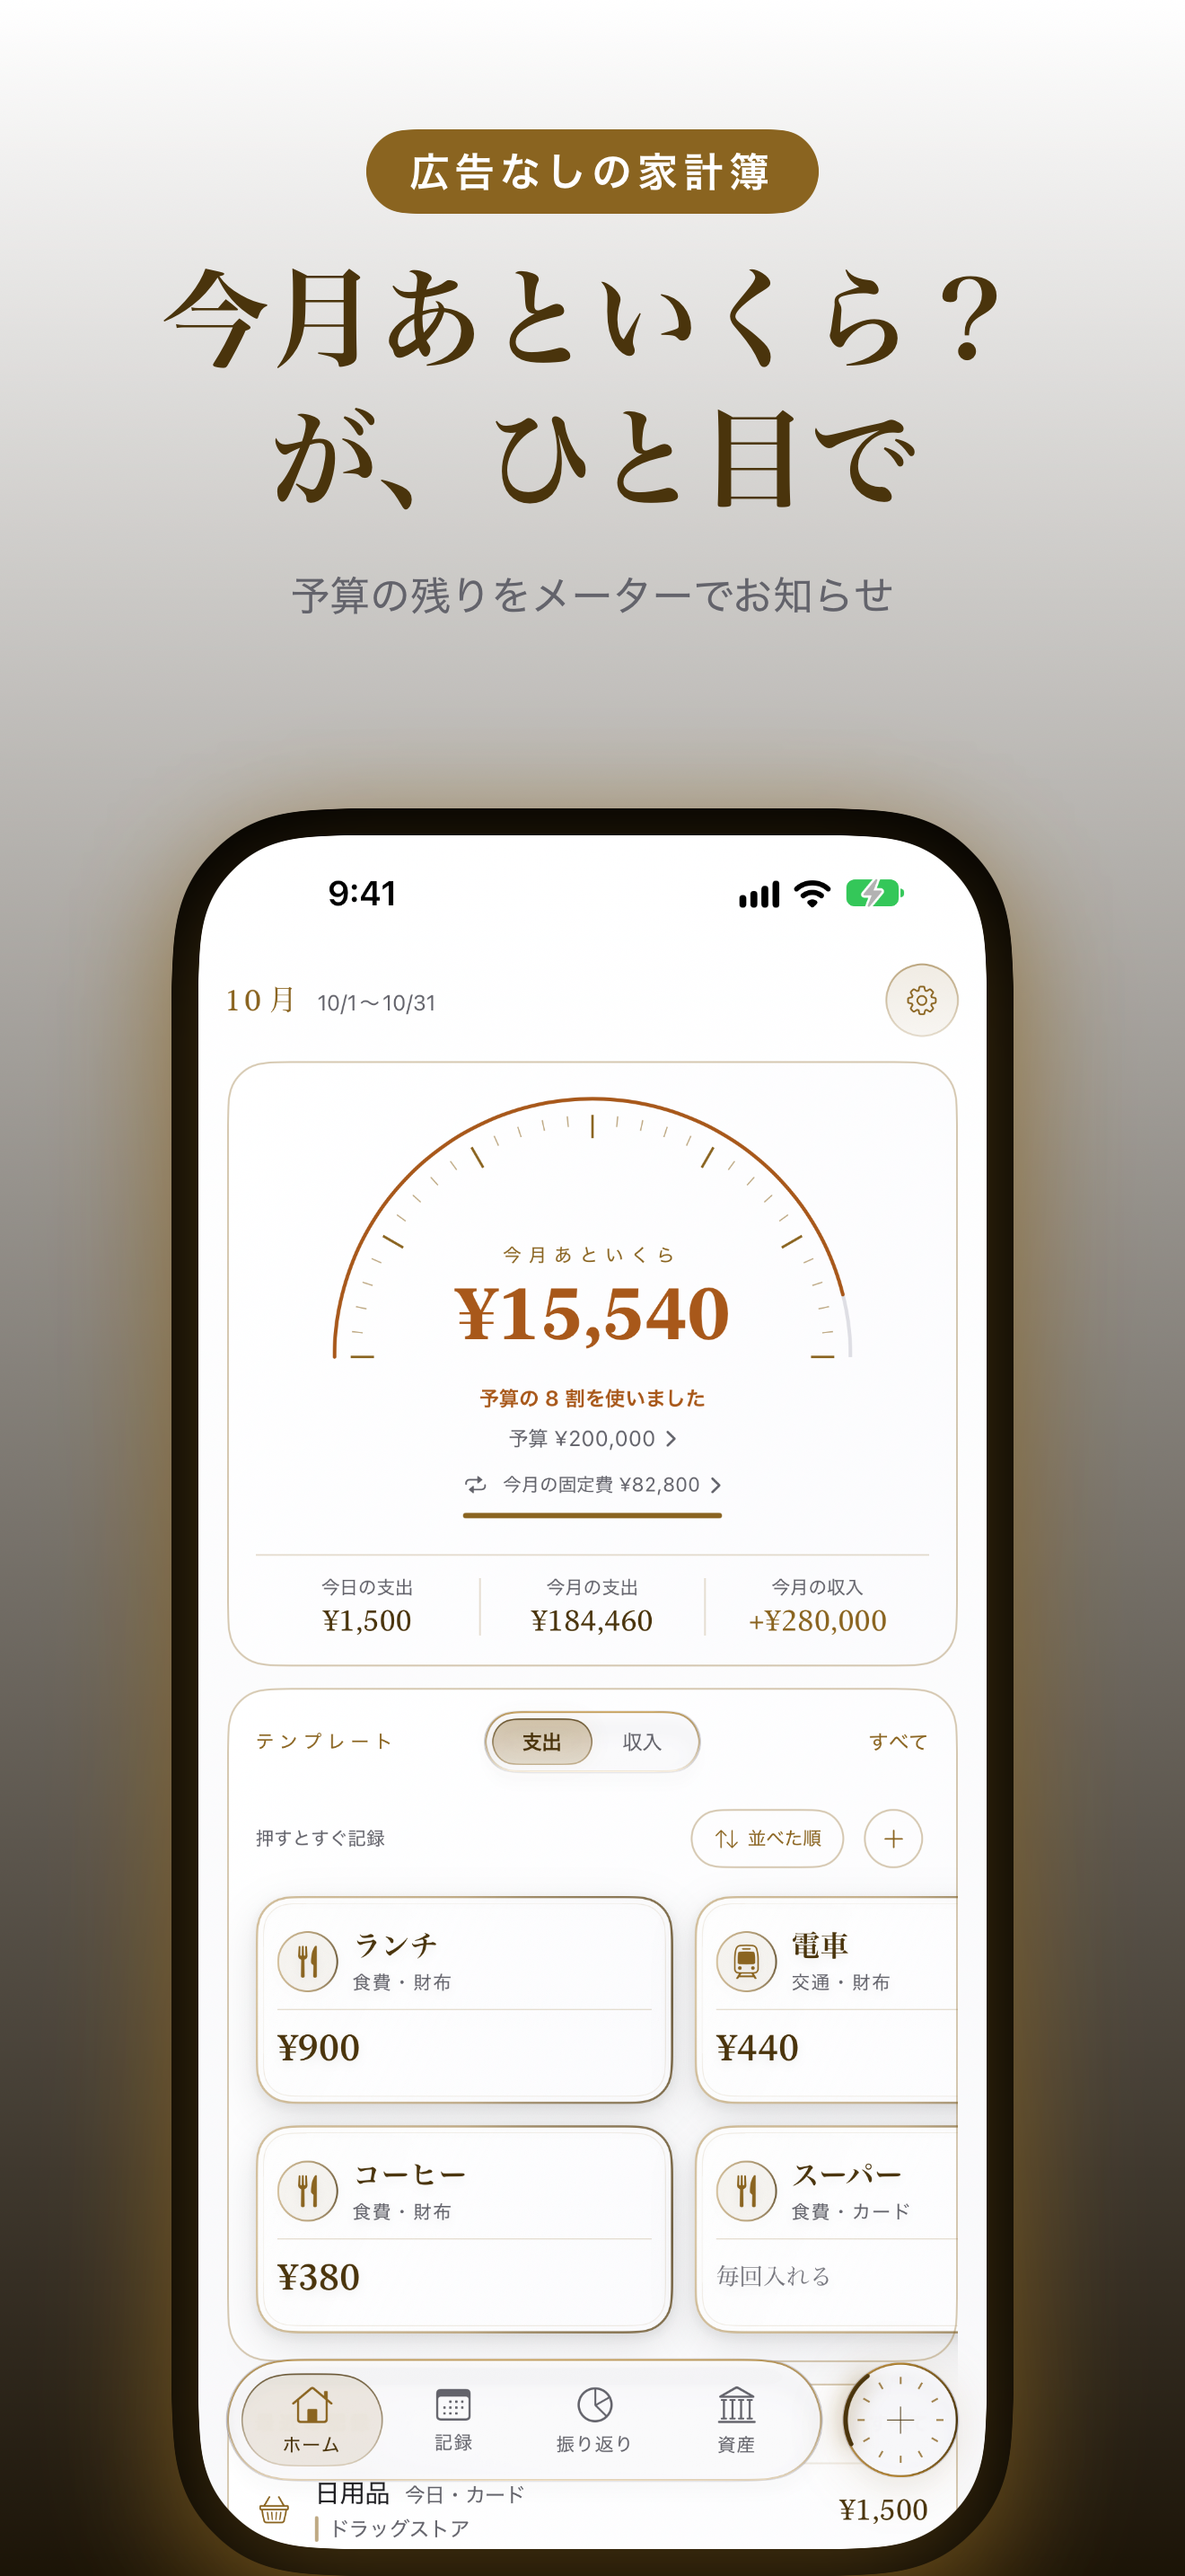
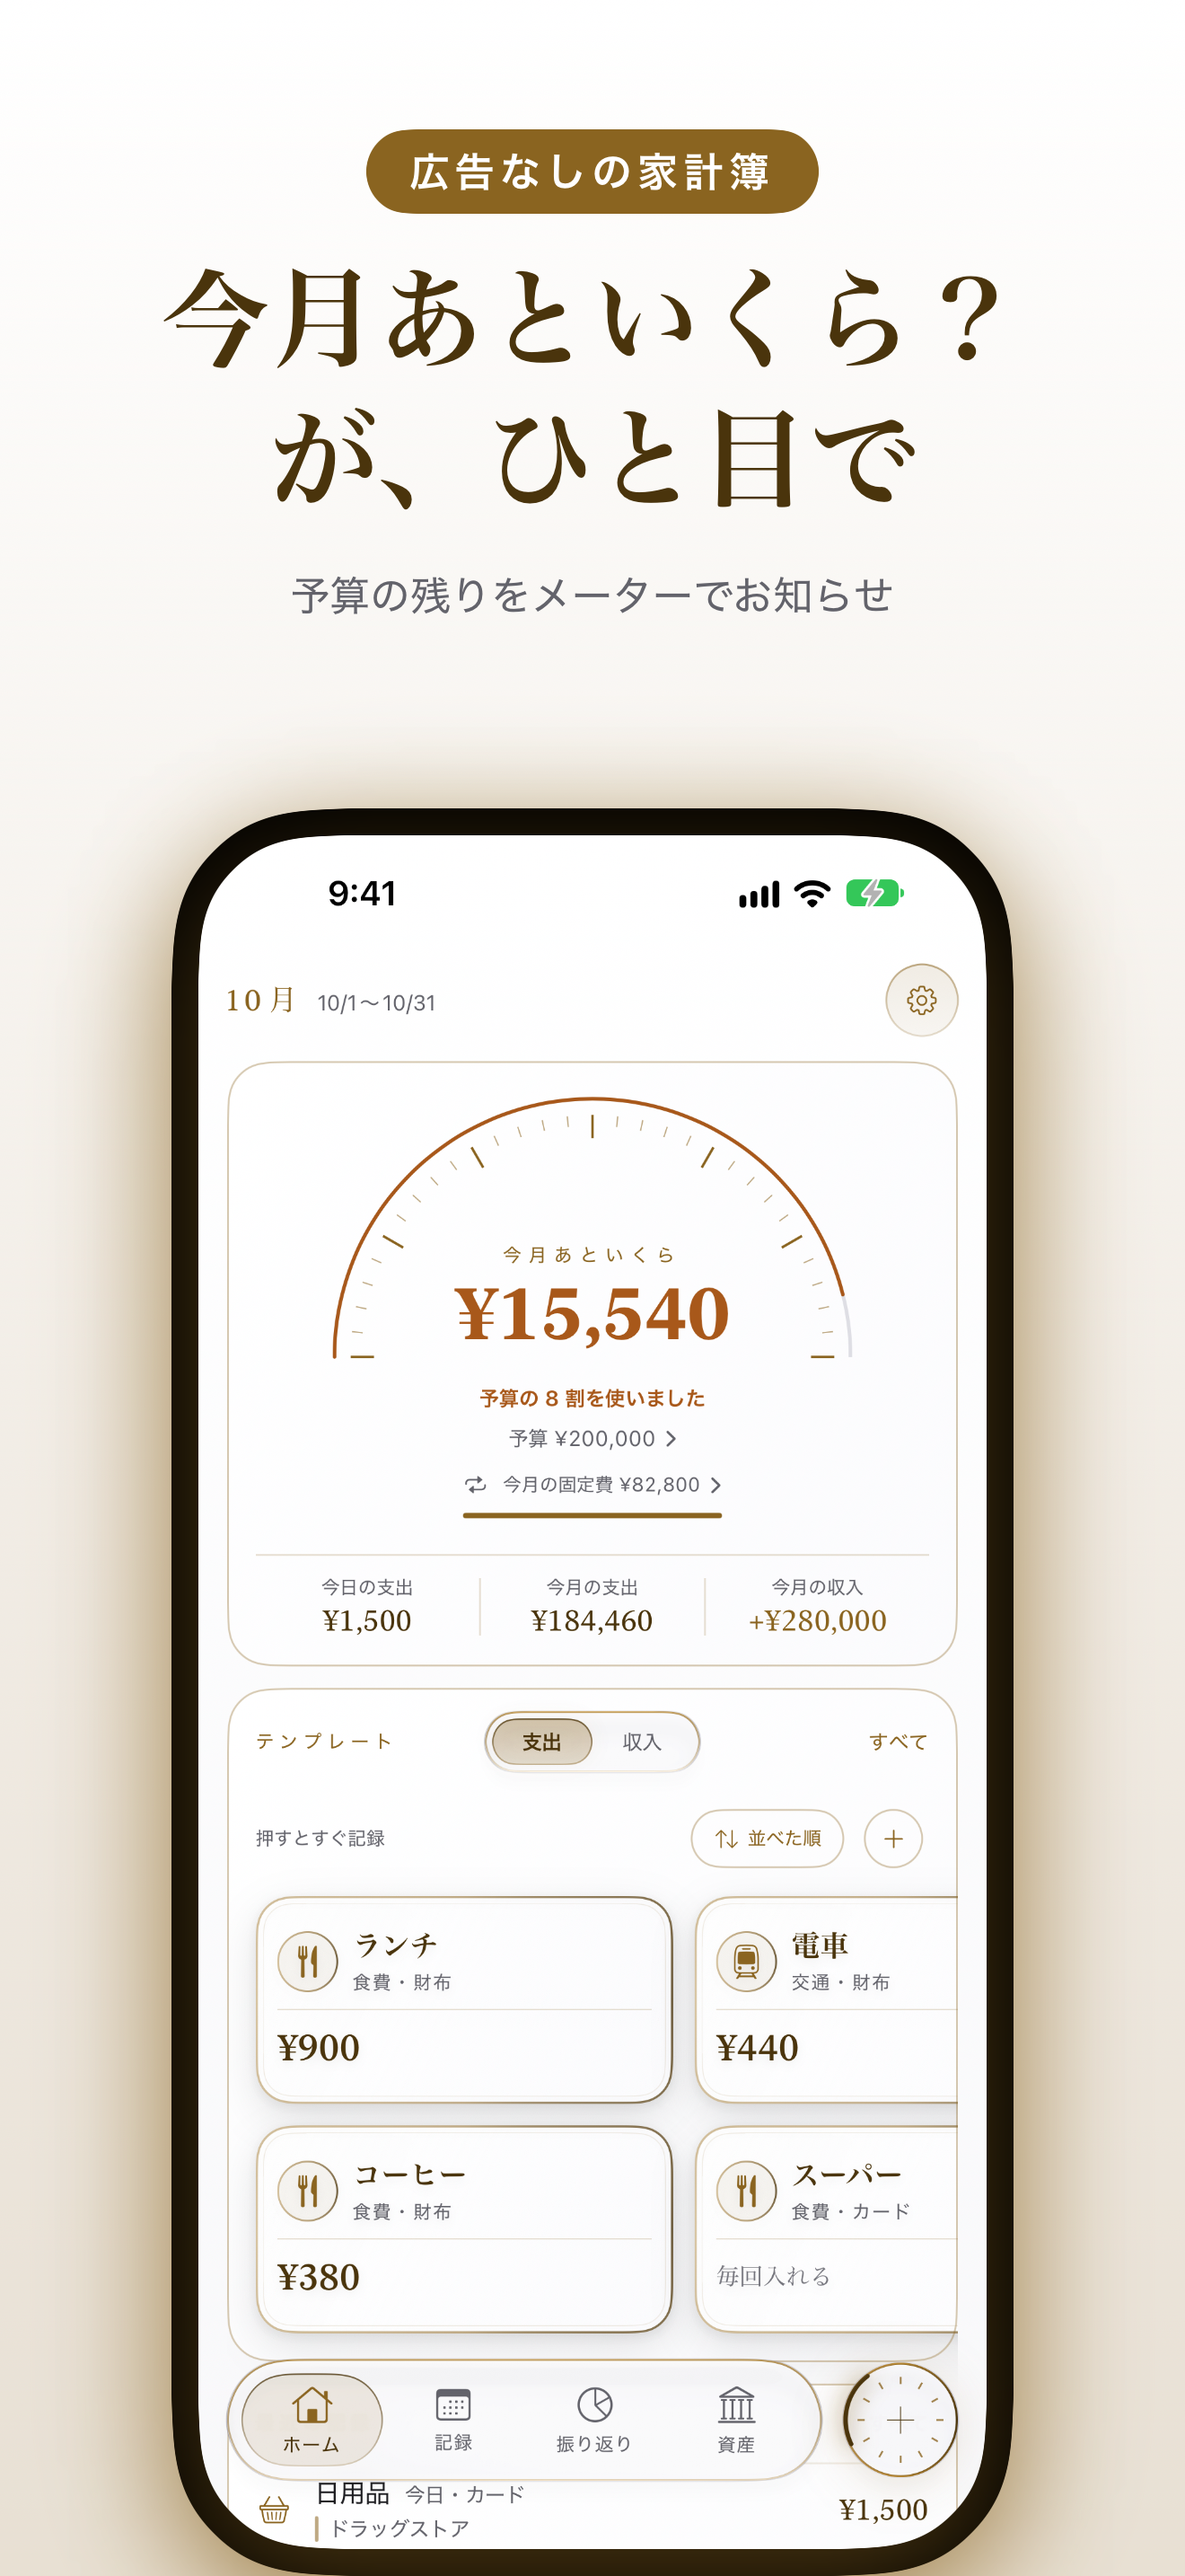
build: add 6.3-inch screenshots and keep the background opaque
App Store Connect が 1206×2622 の大きさを求めるので、6.3 インチの版も描く。不透明で書き出すと半透明のグラデーションが黒ずむので、下に生成りの色を敷く。

diff --git a/.claude/snapshots/store/SnapshotTests.swift b/.claude/snapshots/store/SnapshotTests.swift
@@ -75,6 +75,7 @@ private struct StorePage: View {
                 startPoint: .top,
                 endPoint: .bottom
             )
+            .background(Palette.backgroundTop)
         }
         .clipped()
         .environment(\.colorScheme, .light)
@@ -149,5 +150,33 @@ private extension SnapshotTests {
         let url = URL(fileURLWithPath: directory).appending(path: "\(name).png")
 
         try data.write(to: url)
+        try writeSmall(image, to: name)
+    }
+
+    static func writeSmall(
+        _ image: CGImage,
+        to name: String
+    ) throws {
+        let context = try #require(
+            CGContext(
+                data: nil,
+                width: 1206,
+                height: 2622,
+                bitsPerComponent: 8,
+                bytesPerRow: 0,
+                space: CGColorSpace(name: CGColorSpace.sRGB) ?? CGColorSpaceCreateDeviceRGB(),
+                bitmapInfo: CGImageAlphaInfo.noneSkipLast.rawValue
+            )
+        )
+
+        context.interpolationQuality = .high
+        context.draw(image, in: CGRect(x: 0, y: 0, width: 1206, height: 2622))
+
+        let small = try #require(context.makeImage())
+        let data = try #require(UIImage(cgImage: small).pngData())
+        let folder = URL(fileURLWithPath: directory).appending(path: "6.3")
+
+        try FileManager.default.createDirectory(at: folder, withIntermediateDirectories: true)
+        try data.write(to: folder.appending(path: "\(name).png"))
     }
 }
